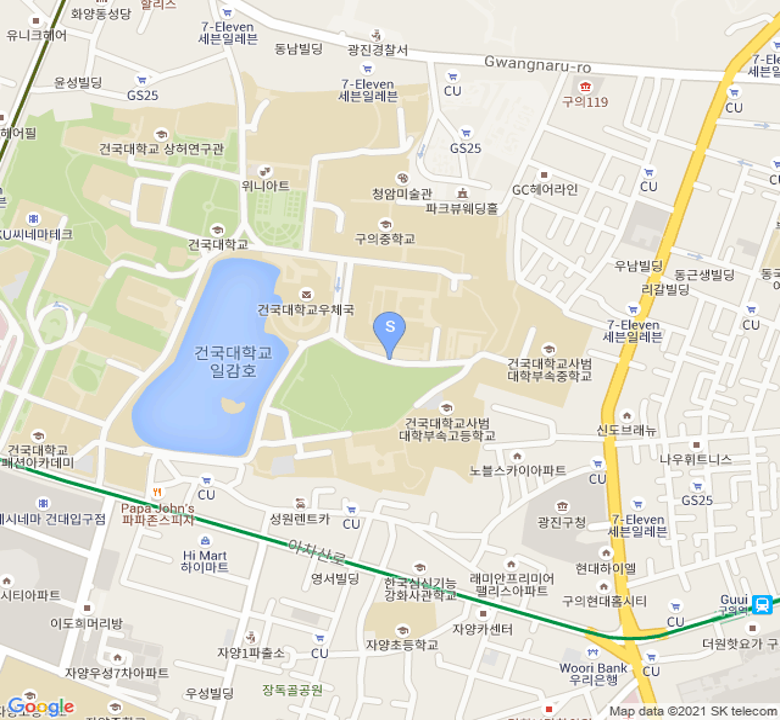
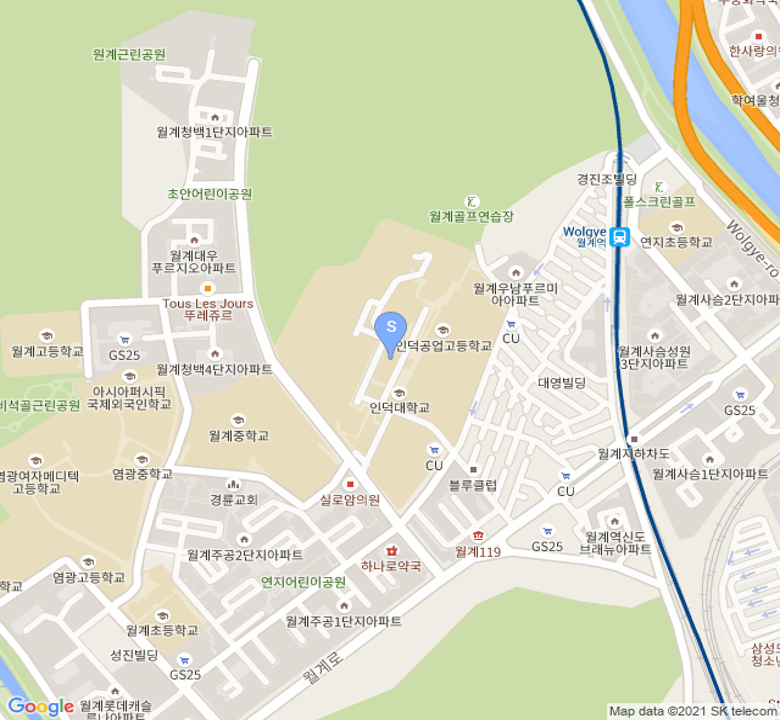
대학 선택시 캠퍼스 정보 출력
주소는 아직 안됨

diff --git a/MainUI.py b/MainUI.py
@@ -154,6 +154,7 @@ class Interface():
         curr_major=self.major_select['value'][self.major_select.current()]
         curr_area=self.area_select['value'][self.area_select.current()]
         self.college_list.clear()
+        self.campus_name.clear()
         self.college_list, self.campus_name = self.tem.getUniversiryInfo(curr_line, curr_major, curr_area)
         k = self.college_select.size()
         for i in range(k):
@@ -161,6 +162,8 @@ class Interface():
 
         for i in range(len(self.college_list)):
             self.college_select.insert(i, self.college_list[i])
+
+        print(self.campus_name)
 
     def showMap(self, index):
         largura = 640
@@ -194,6 +197,11 @@ class Interface():
             self.map_canvas.delete('map')
             self.map_canvas.create_image(0, 0, anchor=NW, image=self.mapdata, tags='map')
             self.map_canvas.place(x=500, y=0)
+
+            self.canvas.delete('college_info')
+            self.canvas.create_text(400, 30, text=self.college_list[index], tags='college_info')
+            self.canvas.create_text(400, 60, text=self.campus_name[index], tags='college_info')
+            self.canvas.create_text(400, 90, text='주소', tags='college_info')
         else:
             pass
 
